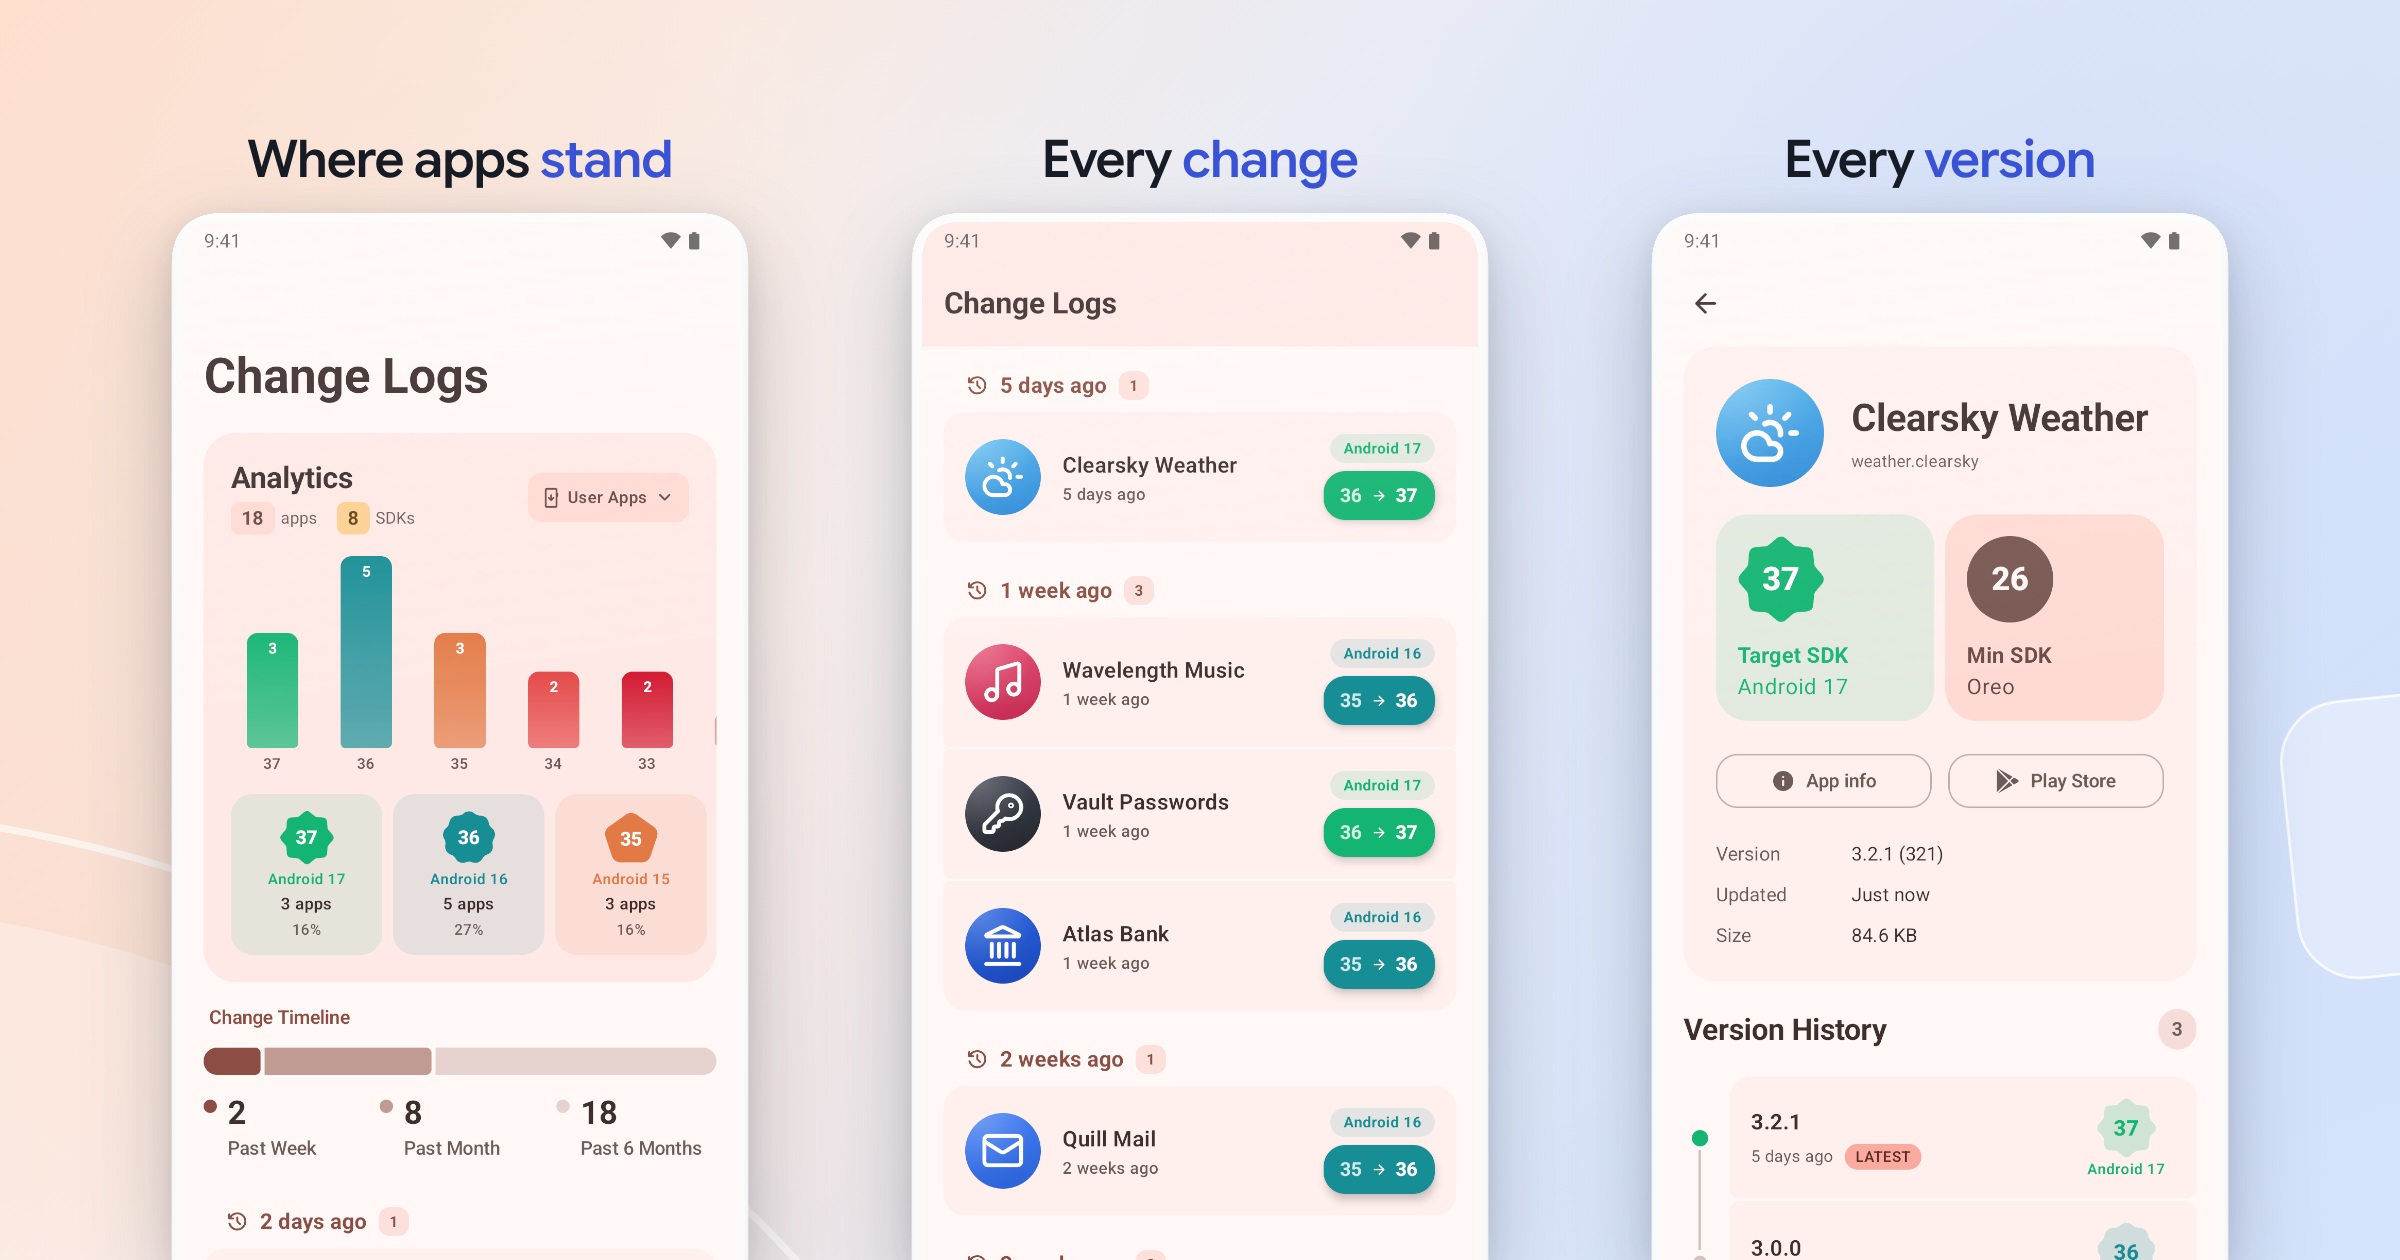
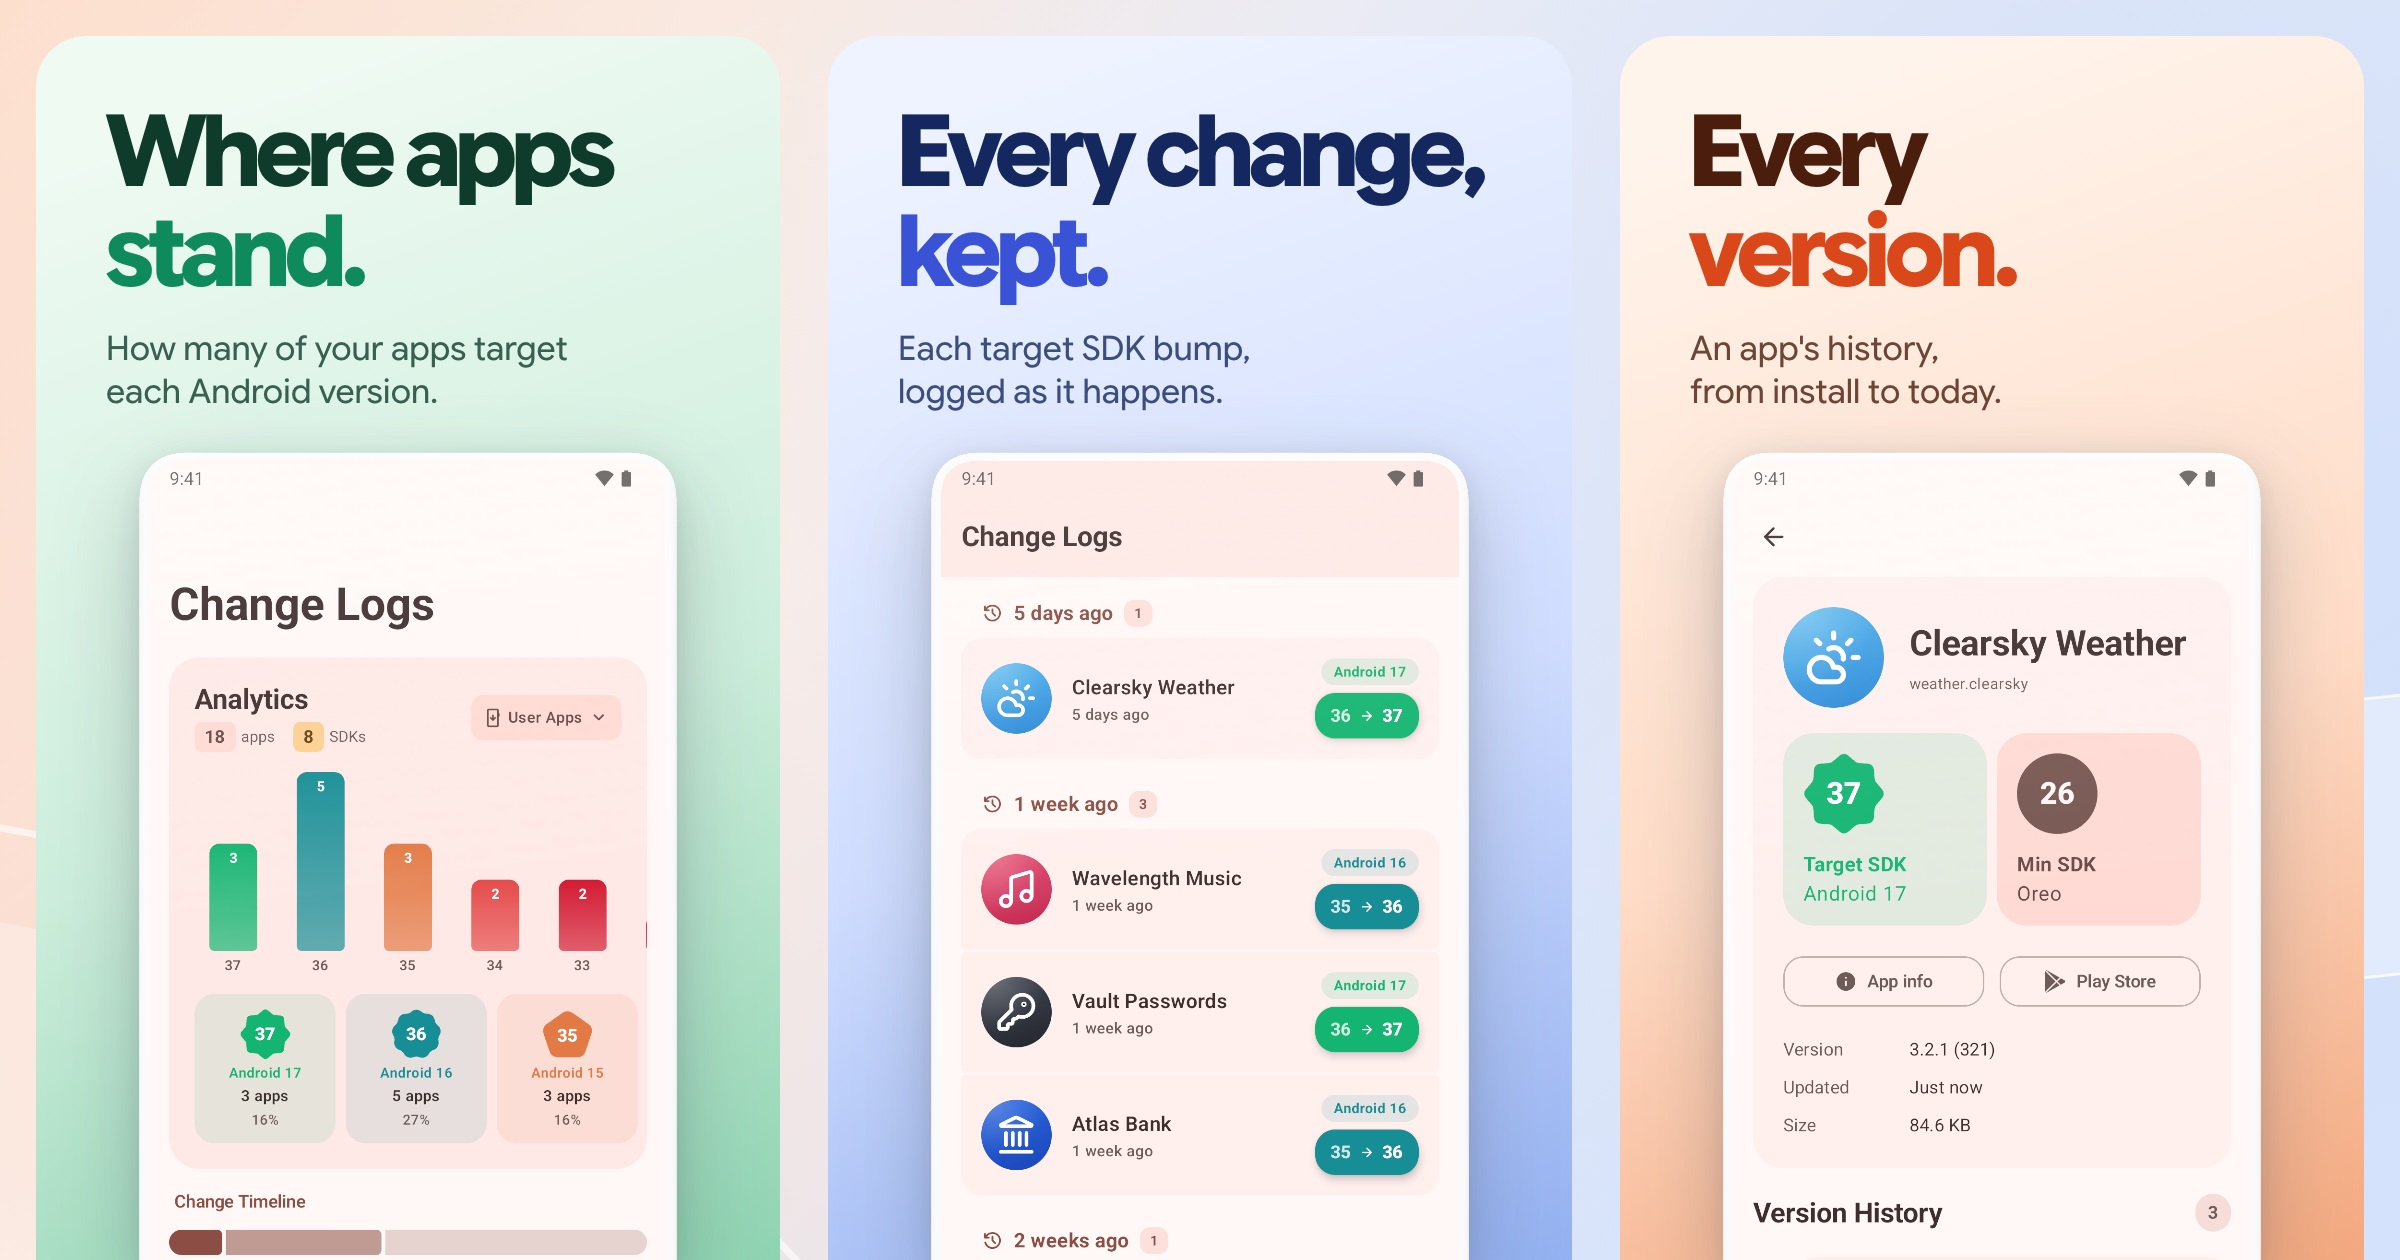
README images in the family's style: three tinted panels with their own headlines, a tablet and a dark phone in two panels, and the 2019 app beside today's; the README follows

diff --git a/store-listing/theme.css b/store-listing/theme.css
@@ -54,18 +54,39 @@ header p{margin:28px auto 0;font-size:38px;line-height:1.3;font-weight:420;lette
 .readme .hero .left{left:380px;top:430px;width:470px}
 .readme .hero .center{left:940px;top:370px;width:520px}
 .readme .hero .right{left:1550px;top:430px;width:470px}
-/* Trio: three phones under short captions; the stream runs between them. */
-.readme .trio .device{width:580px;top:210px}
-.readme .trio .one{left:170px}
-.readme .trio .two{left:910px}
-.readme .trio .three{left:1650px}
-.readme .trio .device-label{transform:translateY(calc(-100% - 24px));font-weight:560;letter-spacing:-.01em;color:var(--ink)}
-/* Spread: the headline on the left, then a 7-inch tablet and a phone side by side, both whole. */
-.readme .spread header{left:110px;top:200px;bottom:auto;width:640px;display:block}
-.readme .spread h1{font-size:104px}
-.readme .spread header p{font-size:38px}
-.readme .spread .slate{left:900px;top:125px;width:640px}
-.readme .spread .front{left:1640px;top:330px;width:380px}
+/* Panels (README): a tinted panel per device, open at the bottom so its phone runs off the card, with the
+   device's own headline and caption on top. The tints are the app's API-level colors: green for current, blue,
+   and the peach of a level behind. */
+.readme .panel{position:absolute;top:36px;bottom:0;width:744px;overflow:hidden;border-radius:50px 50px 0 0;z-index:1}
+.readme .panel-title{margin:66px 70px 0;font-size:100px;line-height:1;font-weight:700;letter-spacing:-.035em;font-variation-settings:'opsz' 144,'ROND' 0}
+.readme .panel-caption{margin:26px 70px 0;font-size:34px;line-height:1.25;font-weight:440;opacity:.8}
+.readme .panel-title em{font-style:normal;background:none;-webkit-text-fill-color:currentColor;color:var(--accent)}
+.readme .panel-stand{left:36px;background:linear-gradient(160deg,#effaf3 8%,#cdeedc 58%,#8fd3b2);color:#0f3b2b;--accent:#0f8a5c}
+.readme .panel-change{left:828px;background:linear-gradient(160deg,#eef3ff 8%,#d0ddff 58%,#93b0f0);color:#14275e;--accent:#3a52d6}
+.readme .panel-version{left:1620px;background:linear-gradient(160deg,#fff4ec 8%,#ffdcc7 58%,#f3a87f);color:#4a1d0c;--accent:#d9471b}
+.readme .panels .device{top:450px;width:540px}
+.readme .panels .stand{left:138px}
+.readme .panels .change{left:930px}
+.readme .panels .version{left:1722px}
+/* Two panels: the tablet in a light one, the phone in dark mode in a dark one. */
+.readme .pair .panel{width:1146px}
+.readme .pair .panel-room{left:36px;background:linear-gradient(160deg,#f4f1ff 8%,#ddd6fb 58%,#a99ae6);color:#231a5c;--accent:#5b45d6}
+.readme .pair .panel-night{left:1218px;background:linear-gradient(160deg,#2b2f4a 8%,#1d2036 60%,#121424);color:#f1f2fb;--accent:#9fb0ff}
+.readme .pair .room{left:560px;top:430px;width:600px}
+.readme .pair .night{left:1700px;top:430px;width:470px}
+/* Before and after: each pair on a soft panel, 2019's flat dark frame beside today's white phone, whole, with
+   the year under each. */
+.readme .compare .pair-panel{position:absolute;top:60px;bottom:60px;width:1110px;border-radius:56px;background:#ffffff66;border:2px solid #ffffffaa;z-index:0}
+.readme .compare .pair-panel.first{left:60px}
+.readme .compare .pair-panel.second{right:60px}
+.readme .compare .device{top:120px;width:430px}
+.readme .compare .device.before{--bezel:12px;--radius:56px;background:#20242c;box-shadow:0 40px 70px -40px #20242c99}
+.readme .compare .pair1.before{left:150px}
+.readme .compare .pair1.after{left:640px}
+.readme .compare .pair2.before{left:1330px}
+.readme .compare .pair2.after{left:1820px}
+.readme .compare .device-label{transform:translateY(calc(var(--tallest-device) + 26px));text-align:center;font-size:40px;font-weight:600;letter-spacing:-.01em;color:var(--muted)}
+.readme .compare .device-label em{font-style:normal}
 
 /* Share image (1280 x 640, the web demo's og:image): the name card on the left, the app list on the right,
    running off the bottom. Rebuilt from the latest capture by export, like every other card. */
@@ -103,5 +124,5 @@ header p{margin:28px auto 0;font-size:38px;line-height:1.3;font-weight:420;lette
 /* The highlight: the highlighted words in indigo against the navy, the complement of the peach wash and an echo
    of the sky on the right, apart from the app's warm screens; taglines and captions do the same. */
 h1 em,.identity small em,.device-label em{font-style:normal;background:none;color:#3a52d6;-webkit-text-fill-color:#3a52d6}
-.tablet10 header,.readme .spread header{text-align:left}
-.tablet10 header p,.readme .spread header p{margin-left:0}
+.tablet10 header{text-align:left}
+.tablet10 header p{margin-left:0}

diff --git a/store-listing/theme.js b/store-listing/theme.js
@@ -108,15 +108,29 @@ export default {
   art,
   continuous: true,
 
-  compose({main}) {
-    // A card without a headline (the README trio, under its own section heading) has no copy.
+  compose({main, slide}) {
+    // A card without a headline (the README panels, under their own section heading) has no copy.
     const header = main.querySelector('header');
     if (header && !header.querySelector('h1')?.textContent.trim()) header.remove();
+    // Before and after (README): a soft panel behind each pair.
+    if (/\bcompare\b/.test(slide.layout || '')) main.insertAdjacentHTML('beforeend', '<div class="pair-panel first"></div><div class="pair-panel second"></div>');
+    // Panels (README): a tinted panel per device, holding that device's own headline and caption.
+    if (/\bpanels\b/.test(slide.layout || '')) {
+      const esc = t => t.replace(/[&<>]/g, c => ({'&': '&amp;', '<': '&lt;', '>': '&gt;'})[c]);
+      const lines = t => t.split(/(\*[^*]+\*)/).filter(Boolean)
+        .map(part => part.startsWith('*') ? `<em>${esc(part.slice(1, -1))}</em>` : esc(part)).join('').replace(/\n/g, '<br>');
+      for (const spec of slide.devices || []) {
+        if (!spec.title) continue;
+        main.insertAdjacentHTML('beforeend', `<section class="panel panel-${spec.role.split(/\s+/)[0]}">` +
+          `<div class="panel-title">${lines(spec.title)}</div><div class="panel-caption">${lines(spec.caption || '')}</div></section>`);
+      }
+    }
   },
 
   // After the studio has sized every frame: each device is drawn as a real 3D device (phone3d.js).
   async layout({main}) {
-    const devices = [...main.querySelectorAll('.device.device-frame-phone, .device.device-frame-tablet')];
+    // A "before" device (a 2019 capture) keeps its plain, flat frame.
+    const devices = [...main.querySelectorAll('.device.device-frame-phone:not(.before), .device.device-frame-tablet:not(.before)')];
     if (!devices.length) return;
     const {renderDevice} = await import('./phone3d.js');
     for (const device of devices) await renderDevice(main, device);

diff --git a/README.md b/README.md
@@ -18,23 +18,27 @@
 ## Where your apps stand
 
 <p align="center">
-  <img src="store-listing/en-US/readme/tools.jpg" width="100%" alt="SDK analytics by Android version, the change log of target SDK bumps, and an app's details with its version history">
+  <img src="store-listing/en-US/readme/tools.jpg" width="100%" alt="Where apps stand: SDK analytics by Android version. Every change, kept: the log of target SDK bumps. Every version: an app's details and history">
 </p>
 
-- **Every app at a glance.** Searchable, sorted by name or target SDK, each app marked with its level. Its shape says how current it is: a green sun for the latest Android, down to a red triangle for apps far behind.
-- **Analytics.** How many of your apps target each Android version, for your own apps, system apps or both. Tap a level to see the apps behind it.
-- **Every change, kept.** When an app updates and moves its target SDK, SDK Monitor logs it, so you can see who keeps up and who falls behind over weeks and months.
-- **Each app's story.** Target and minimum SDK, version, size, and a history of every version you have had.
+- **Every app at a glance.** Searchable, sorted by name or target SDK, each app marked with its level. The shape says how current it is: a green sun for the latest Android, down to a red triangle for apps far behind.
+- **Where apps stand.** How many of your apps target each Android version, for your own apps, system apps or both. Tap a level to see the apps behind it.
+- **Every change, kept.** When an update moves an app's target SDK, SDK Monitor logs it, so you see who keeps up and who falls behind, week by week.
+- **Every version.** Target and minimum SDK, version and size, and a history of every version you have had.
 
-## On a tablet
+## On a tablet, and after dark
 
 <p align="center">
-  <img src="store-listing/en-US/readme/tablet.jpg" width="100%" alt="SDK analytics and the change log on a tablet, and a phone showing the apps that target Android 16">
+  <img src="store-listing/en-US/readme/big-screen.jpg" width="100%" alt="The change log on a tablet with a navigation rail, and an app's details in dark mode on a phone">
 </p>
 
+## From 2019 to now
+
 <p align="center">
-  <img src="store-listing/en-US/readme/big-screen.jpg" width="100%" alt="The app list on a tablet, and an app's details in dark mode on a phone">
+  <img src="store-listing/en-US/readme/before-after.jpg" width="100%" alt="SDK Monitor in 2019 beside today: the app list, and an app's details">
 </p>
+
+SDK Monitor first shipped in 2018. Every screen has since been rebuilt with Kotlin Multiplatform, Compose and Material 3 Expressive, and the app's ideas got sharper: the level now has a shape as well as a color, the change log has analytics on top, and the same screens run on a tablet and on the web.
 
 ## Private by design
 
